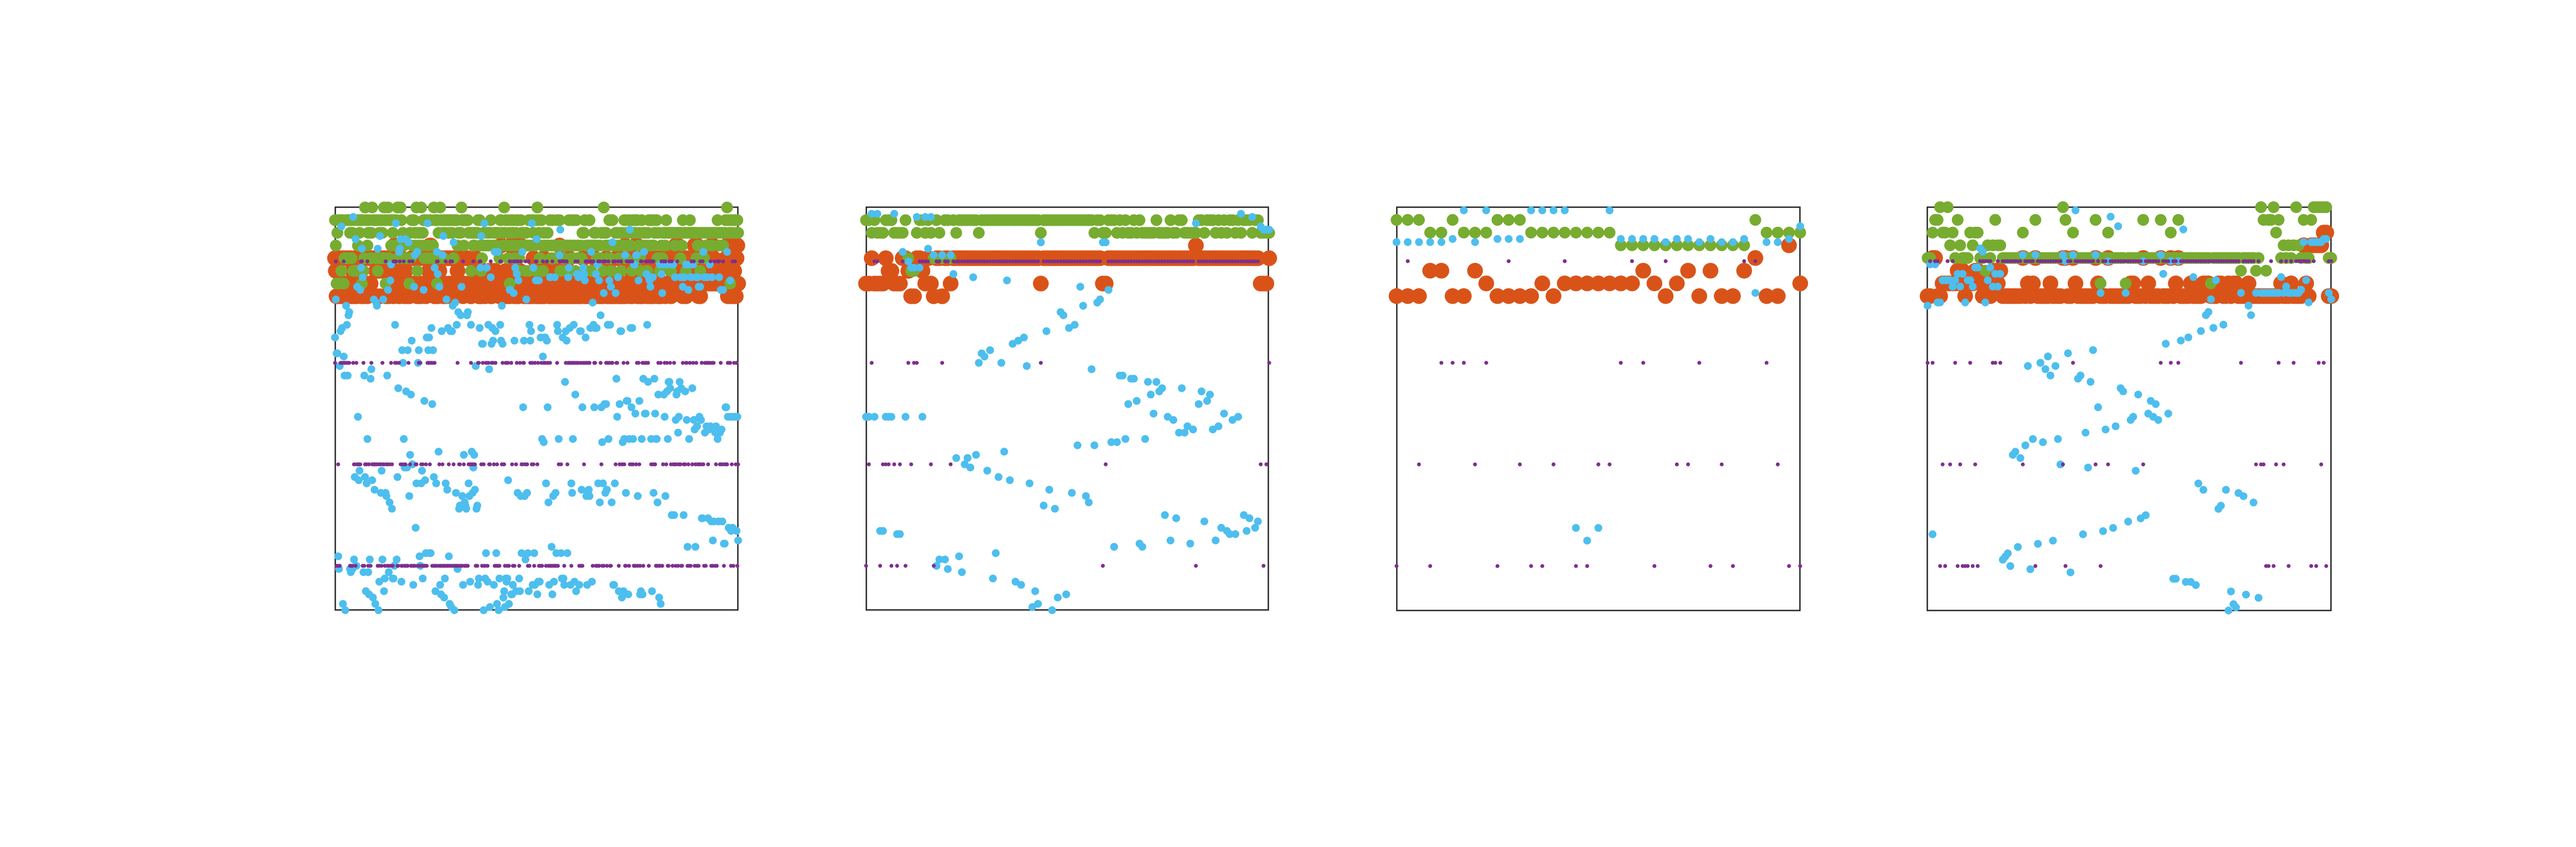
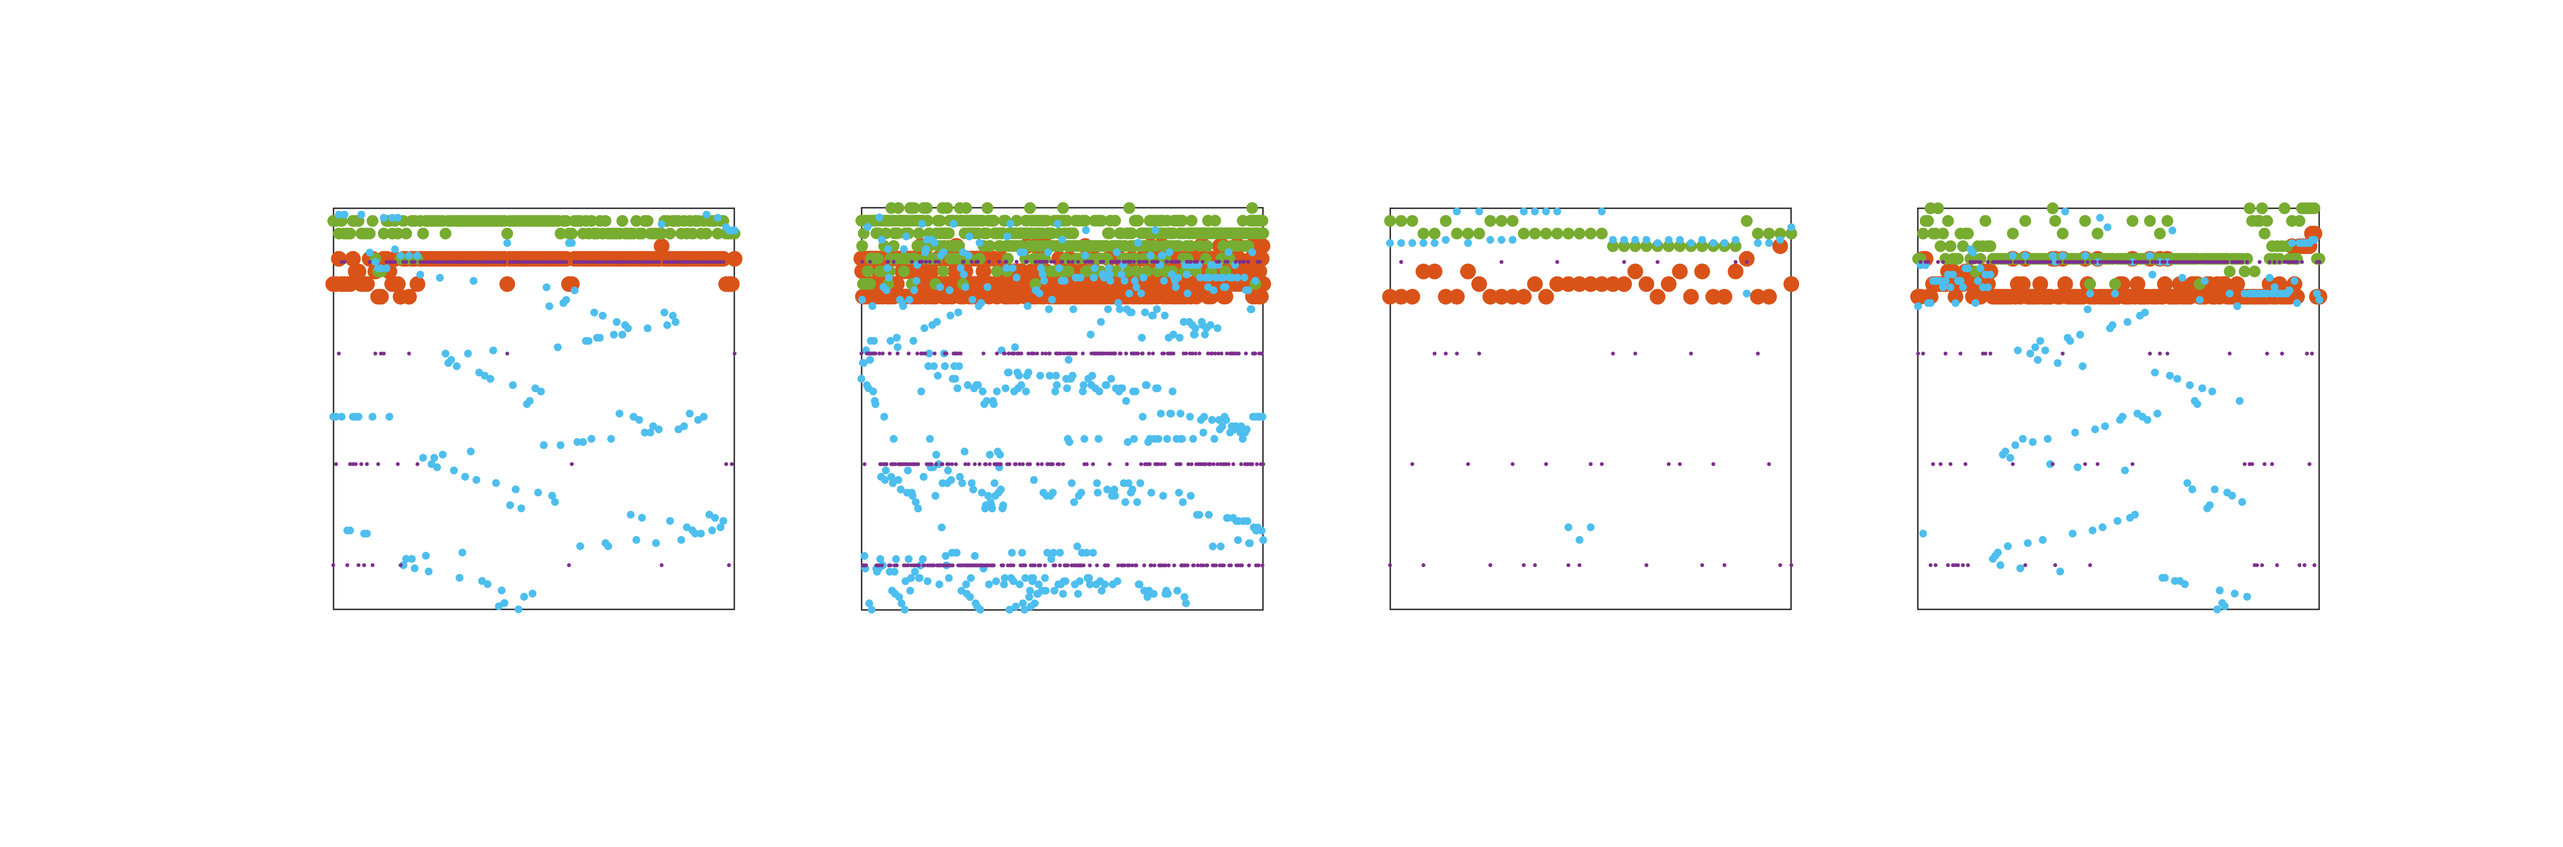
🦾🎵

diff --git a/projects/wave-proc/harmonic-denoising/vis/harmodenoivis_.m b/projects/wave-proc/harmonic-denoising/vis/harmodenoivis_.m
@@ -7,7 +7,7 @@ addpath('../../../pdes/dc-xbore-vis/src/')
 path_read='../bin/save/';
 path_read='E:/data/foralles/precis-clu16/round1/worse/save/';
 path_read='E:/data/foralles/precis-clu16/round1/rscheckkdensity/save/';
-path_read='E:/data/foralles/noise-clu16/save/';
+% path_read='E:/data/foralles/noise-clu16/save/';
 % ------------------------------------------------------------------------------
 dataips__size= read_bin(strcat(path_read,'dataips__size'),[3,1],'uint32');
 nt_ = dataips__size(1);
@@ -28,7 +28,7 @@ fos_ = reshape(fos_, [nb,nabmn]);
 path_read='../bin/read/';
 path_read='E:/data/foralles/precis-clu16/round1/worse/read/';
 path_read='E:/data/foralles/precis-clu16/round1/rscheckkdensity/read/';
-path_read='E:/data/foralles/noise-clu16/read/';
+% path_read='E:/data/foralles/noise-clu16/read/';
 % ------------------------------------------------------------------------------
 % abmn_bids = read_bin(strcat(path_read,'abmn_bids'),[nabmn,7],'uint32');
 
@@ -64,7 +64,18 @@ nabmn=size(abmn,1);
 %                                cable 3 was flipped
 %
 % ------------------------------------------------------------------------------
-
+% 16 10 13 14
+u =((32*2+1):(32*3)).';
+v =flip(u);
+u=(1:32*4).';
+v=[(1:32*2).' ; v ; ((32*3+1):32*4).'];
+f = translate_u2v(u,v);
+for iabmn=1:nabmn
+  abmn(iabmn,1) = f(abmn(iabmn,1));
+  abmn(iabmn,2) = f(abmn(iabmn,2));
+  abmn(iabmn,3) = f(abmn(iabmn,3));
+  abmn(iabmn,4) = f(abmn(iabmn,4));
+end
 % ------------------------------------------------------------------------------
 %                                 α + β , 𝐟ₒ
 % ------------------------------------------------------------------------------
@@ -89,7 +100,7 @@ alfabetfos(:,2) = (alfabetfos(:,2) - mean(alfabetfos(:,2))) / std(alfabetfos(:,2
 % ------------------------------------------------------------------------------
 % nrow=1; ncol=4;
 % nrow=5; ncol=10;
-nrow=5; ncol=10;
+nrow=1; ncol=4;
 nclus=nrow*ncol;
 
 [iclus,clusos] = kmeans(alfabetfos,nclus,'Distance','cosine');
@@ -196,22 +207,51 @@ t=(0:(nt-1))*dt;t=t.';t=t+0.01525;
 mini_=min(dataips_(:));
 maxi_=max(dataips_(:));
 % ------------------------------------------------------------------------------
-% figure;
-% for iclu=1:nclus
-%   subplot(nrow,ncol,iclu)
-%   semilogx(t_,dataips_(:,find(iclus==iclu)),'color',rgb(iclu,:))
-%   ylim([mini_,maxi_])
-%   xlim([1e-2,2]);
-%   % xticks([1e-2,1e-1,1])
-%   % axis square;
-%   % grid on;
-%   % xlabel('Time (sec)')
-%   % ylabel('Voltage (V)')
-%   set(gca,'xtick',[])
-%   set(gca,'ytick',[])
-%   xlabel('')
-%   ylabel('')
-%   simple_figure()
-% end
+figure;
+for iclu=1:nclus
+  subplot(nrow,ncol,iclu)
+  semilogx(t_,dataips_(:,find(iclus==iclu)),'color',rgb(iclu,:))
+  ylim([mini_,maxi_])
+  xlim([1e-2,2]);
+  axis square;
+  % xticks([1e-2,1e-1,1])
+  % xlabel('Time (sec)')
+  % ylabel('Voltage (V)')
+  set(gca,'xtick',[])
+  set(gca,'ytick',[])
+  xlabel('')
+  ylabel('')
+  simple_figure()
+end
 % ------------------------------------------------------------------------------
+%
+%              ▦▦▦▦▦▦▦▦▦▦▦▦▦▦▦▦▦▦▦▦▦▦▦▦▦▦▦▦▦▦▦▦
+%              ▦▦▦▦▦▦▦▦▦▦▦▦▦▦▦▦▦▦▦▦▦▦▦▦▦▦▦▦▦▦▦▦
+%              ▦▦▦▦▦▦▦▦▦▦▦▦▦▦▦▦▦▦▦▦▦▦▦▦▦▦▦▦▦▦▦▦
+%              ▦▦▦▦▦▦▦▦▦▦▦▦▦▦▦▦▦▦▦▦▦▦▦▦▦▦▦▦▦▦▦▦
+%              ▦▦▦▦▦▦▦▦▦▦▦▦▦▦▦▦▦▦▦▦▦▦▦▦▦▦▦▦▦▦▦▦
+%
+% ------------------------------------------------------------------------------
+% addpath('../../../pdes/dc-xbore-vis/src/');
+%
+% electxyzclu_size= read_bin(strcat(path_read,'electxyzclu_size'),[3,1],'uint32');
+% nelect = electxyzclu_size(1);
+% electxyzclu = read_bin(strcat(path_read,'electxyzclu'),[nelect,3],'double');
+%
+% tic;
+% pseud = xbore_pseudo(electxyzclu,abmn);
+% toc;
+%
+% klusdata=zeros(nabmn,1);
+% for iclu=1:nclus
+%   klusdata(find(iclus==iclu)) = iclu;
+% end
+%
+% pseudats_plot3d(electxyzclu,pseud,klusdata,80,'Cluster #');
+% colormap(rgb)
+%
+% pseudats_plot3d(electxyzclu,pseud,alfabet,80,'α + β');
+% rgb_=cytwombly_;
+% rgb_=normalizergb(rgb_,min(alfabet),0.02,max(alfabet));
+% colormap(rgb_)
 % ------------------------------------------------------------------------------

diff --git a/projects/pdes/dc-xbore-vis/src/pseudats_plot3d.m b/projects/pdes/dc-xbore-vis/src/pseudats_plot3d.m
@@ -1,0 +1,115 @@
+function pseudats_plot3d(electrodes_xyz,pseud,data2plot,ptsz,units_name)
+% diego domenzain
+% abril 2022
+% ------------------------------------------------------------------------------
+%
+% pseulocs_plot3d.m
+%
+% plot electrodes_xyz & all pseudo locs (no fancy scheme for repetitions)
+% needs:
+%    electrode positions in xyz
+%    pseud
+% ------------------------------------------------------------------------------
+nelectrodes = size(electrodes_xyz,1);
+nabmn = size(pseud,1);
+cmiax = [min(data2plot), max(data2plot)];
+% ------------------------------------------------------------------------------
+xmin = min(electrodes_xyz(:,1));
+xmax = max(electrodes_xyz(:,1));
+
+ymin = min(electrodes_xyz(:,2));
+ymax = max(electrodes_xyz(:,2));
+
+zmin = min(electrodes_xyz(:,3));
+zmax = max(electrodes_xyz(:,3));
+
+xmin_= min(pseud(:,1));
+xmax_= max(pseud(:,1));
+
+ymin_= min(pseud(:,2));
+ymax_= max(pseud(:,2));
+
+zmin_= min(pseud(:,3));
+zmax_= max(pseud(:,3));
+
+xmax = max([xmax , xmax_]);
+ymax = max([ymax , ymax_]);
+zmax = max([zmax , zmax_]);
+xmin = min([xmin , xmin_]);
+zmin = min([zmin , zmin_]);
+ymin = min([ymin , ymin_]);
+% ------------------------------------------------------------------------------
+colo = [0.2392,0.5647,0.9294];
+colo_= [0.1412,0.1373,0.7569];
+
+colo = [0.0824,0.8392,0.0549];
+colo_= [0.1098,0.8392,0.0549];
+
+colo = [0.8392,0.2000,0.0549];
+colo_= [0.8392,0.2000,0.0549];
+% ------------------------------------------------------------------------------
+rgb = qualitcolor();
+% ------------------------------------------------------------------------------
+figure;
+subplot(1,3,1);
+hold on;
+% -
+plot(electrodes_xyz(:,1),electrodes_xyz(:,3),'.','color',[0.3,0.3,0.3],'markersize',30)
+% plot all pseudo positions (including repetitions)
+scatter(pseud(:,1),pseud(:,3),ptsz,data2plot,'filled')
+% -
+hold off;
+caxis([cmiax(1),cmiax(2)]);
+% colormap(rainbow3_cb(1));
+colormap(rgb);
+hcb = colorbar('southoutside');
+hcb.TickLength = 0;
+ylabel(hcb,units_name);
+axis ij;
+axis image;
+xlim([xmin-1 xmax+1])
+ylim([zmin-1 zmax+1])
+xlabel('Length (m)')
+ylabel('Depth (m)')
+simple_figure()
+
+subplot(1,3,2);
+hold on;
+% -
+plot(electrodes_xyz(:,2),electrodes_xyz(:,3),'.','color',[0.3,0.3,0.3],'markersize',30)
+% plot all pseudo positions (including repetitions)
+scatter(pseud(:,2),pseud(:,3),ptsz,data2plot,'filled')
+% -
+hold off;
+caxis([cmiax(1),cmiax(2)]);
+% colormap(rainbow3_cb(1));
+colormap(rgb);
+hcb = colorbar('southoutside');
+hcb.TickLength = 0;
+ylabel(hcb,units_name);
+axis ij;
+axis image;
+xlim([ymin-1 ymax+1])
+ylim([zmin-1 zmax+1])
+xlabel('Width (m)')
+ylabel('Depth (m)')
+simple_figure()
+
+subplot(1,3,3);
+hold on;
+% -
+plot(pseud(:,1),pseud(:,2),'.','color',colo_,'markersize',3)
+plot(electrodes_xyz(:,1),electrodes_xyz(:,2),'.','color',[0.3,0.3,0.3],'markersize',40)
+% -
+hold off;
+axis ij;
+axis image;
+xlim([xmin-1 xmax+1])
+ylim([ymin-1 ymax+1])
+xlabel('Length (m)')
+ylabel('Width (m)')
+simple_figure()
+% ------------------------------------------------------------------------------
+% set(gcf,'units','normalized','outerposition',[0 0 0.8 1]);
+set(gcf,'units','normalized','outerposition',[0 0 0.8 0.8]);
+end

diff --git a/projects/wave-proc/harmonic-denoising/vis/harmodenoivis__.m b/projects/wave-proc/harmonic-denoising/vis/harmodenoivis__.m
@@ -163,8 +163,9 @@ for iclu=1:nclus
   ylim([mini_,maxi_]*1e3)
   xticks([1e-2,1e-1,1])
   axis square;
-  grid on;
-  xlabel('Time (sec)')
+  set(gca,'xtick',[])
+  set(gca,'ytick',[])
+  xlabel('')
   ylabel('')
   simple_figure()
 end
